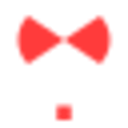
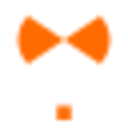
Retheme Heyra to the AxeForge kit's relay flavor
Replaces the one-off #ff3b3b accent (which lived outside the brand
kit's sanctioned mechanism) with the new relay flavor -- external
tools/hardware/browser extensions, shared with rsvp-m5 and
ReplayRaccoon, accent #ff6b00 + neutral-gray shell.

web/index.html and web/flash.html: data-flavor="relay" replaces the
ad-hoc :root override. web/axeforge.css re-copied from the updated
kit. logo.svg/wordmark.svg/favicon.svg: fallback/hardcoded colors
updated for standalone renders.

addons/heyra/app/main.py: kept its independent CSS var names (no
<link> tag available for this Python-templated string), swapped the
accent literals, and added a real --accent-contrast token -- fixing
3 real contrast bugs the color change would otherwise have introduced
(white text on what's now a ~2.86:1-contrast orange background).

Add-on Store card art (icon.png/logo.png) regenerated from the updated
mark SVGs at their HA-mandated dimensions (128x128 / 250x100).
Bumped to 0.5.3 so Supervisor offers it as an update.

.impeccable.md and CLAUDE.md: corrected stale references describing
the retired ad-hoc accent as intentional.

Changed region(s): [[0.125, 0.125, 0.875, 0.5], [0.4375, 0.8125, 0.5625, 0.9375]]

diff --git a/web/axeforge.css b/web/axeforge.css
@@ -7,12 +7,14 @@
      (the @theme inline block maps tokens to axe-* utilities)
    - Plain CSS / no Tailwind: just link it; browsers ignore @theme.
 
-   Flavors (set on <html>): forge (default) | circuit | flux | signal
+   Flavors (set on <html>): forge (default) | circuit | flux | relay | signal
    ============================================================ */
 
 @import url('https://fonts.googleapis.com/css2?family=Inter:wght@400;500;600;700&family=JetBrains+Mono:wght@400;500&display=swap');
 
-/* ---- Shell tokens: identical in every flavor. Never override. ---- */
+/* ---- Shell tokens: identical in every flavor except relay. Never override
+   otherwise -- relay's neutral-gray shell is a deliberate, one-time exception
+   (see the "new flavor discussion" note below), not a precedent for others. ---- */
 :root {
   color-scheme: dark;
 
@@ -45,6 +47,23 @@
 [data-flavor="flux"] {
   --af-accent: #a78bfa;
   --af-accent-hover: #8b5cf6;
+  --af-accent-contrast: #05070a;
+}
+
+/* relay: the one flavor that also overrides shell tokens (bg/surface/-2/-3/line),
+   not just the 3 accent vars -- "external tools/hardware/products" (Heyra, rsvp-m5,
+   ReplayRaccoon), inheriting ReplayRaccoon's neutral-gray shell instead of the
+   default blue-black. This is the "new flavor discussion" the Do/Don't section
+   below refers to, made real -- a deliberate one-time exception, not a precedent. */
+[data-flavor="relay"] {
+  --af-bg: #0a0a0a;
+  --af-surface: #1a1a1a;
+  --af-surface-2: #161616; /* terminal body */
+  --af-surface-3: #202020; /* terminal header */
+  --af-line: #2a2a2a;
+
+  --af-accent: #ff6b00;
+  --af-accent-hover: #e56000;
   --af-accent-contrast: #05070a;
 }
 

diff --git a/web/index.html b/web/index.html
@@ -1,5 +1,5 @@
 <!doctype html>
-<html lang="en" data-theme="dark">
+<html lang="en" data-flavor="relay">
 <head>
 <meta charset="utf-8">
 <meta name="viewport" content="width=device-width, initial-scale=1">
@@ -8,13 +8,12 @@
 <link rel="icon" href="./favicon.svg" type="image/svg+xml">
 <link rel="stylesheet" href="./axeforge.css">
 <style>
-  /* AxeForge shell (axeforge.css) + Heyra's own alert-red as the custom flavor
-     accent -- same "one custom accent per project" pattern as rsvp-m5's terracotta.
-     Fonts/components (Inter, JetBrains Mono, .glass-card, .terminal-window, .axe-button)
-     are inherited from the kit deliberately, not swapped -- the kit's own consistency
-     contract bans per-tool display fonts, and this is a real cross-project brand
-     system, not a fresh greenfield choice to second-guess. */
-  :root { --af-accent: #ff3b3b; --af-accent-hover: #e62e2e; --af-accent-contrast: #ffffff; }
+  /* AxeForge shell + the relay flavor (external tools/hardware/browser extensions)
+     -- see branding/README.md. Fonts/components (Inter, JetBrains Mono, .glass-card,
+     .terminal-window, .axe-button) are inherited from the kit deliberately, not
+     swapped -- the kit's own consistency contract bans per-tool display fonts, and
+     this is a real cross-project brand system, not a fresh greenfield choice to
+     second-guess. */
 
   * { box-sizing: border-box; }
   body { margin: 0; }

diff --git a/web/flash.html b/web/flash.html
@@ -1,5 +1,5 @@
 <!doctype html>
-<html lang="en" data-theme="dark">
+<html lang="en" data-flavor="relay">
 <head>
 <meta charset="utf-8">
 <meta name="viewport" content="width=device-width, initial-scale=1">
@@ -9,9 +9,8 @@
 <link rel="stylesheet" href="./axeforge.css">
 <script type="module" src="https://unpkg.com/esp-web-tools@10/dist/web/install-button.js?module"></script>
 <style>
-  /* Same shell as index.html -- same accent override, same kit components, kept in sync
+  /* Same shell as index.html -- same relay flavor, same kit components, kept in sync
      deliberately rather than sharing a separate stylesheet for two pages this small. */
-  :root { --af-accent: #ff3b3b; --af-accent-hover: #e62e2e; --af-accent-contrast: #ffffff; }
 
   * { box-sizing: border-box; }
   body { margin: 0; }

diff --git a/addons/heyra/app/main.py b/addons/heyra/app/main.py
@@ -147,9 +147,9 @@ STATUS_HTML = """<!doctype html>
 <html><head><meta charset="utf-8"><title>Heyra</title>
 <style>
   :root {{
-    --bg: #05070a; --surface: #0a0f1a; --line: #1a2233;
+    --bg: #0a0a0a; --surface: #1a1a1a; --line: #2a2a2a;
     --text: #ffffff; --text-muted: #94a3b8;
-    --accent: #ff3b3b; --accent-hover: #e62e2e;
+    --accent: #ff6b00; --accent-hover: #e56000; --accent-contrast: #05070a;
     --online-bg: rgba(34, 197, 94, 0.14); --online-text: #4ade80;
     --offline-bg: rgba(148, 163, 184, 0.1); --offline-text: #94a3b8;
     --radius: 0.6rem;
@@ -169,16 +169,16 @@ STATUS_HTML = """<!doctype html>
   .lede {{ color: var(--text-muted); margin: 0 0 2.25rem; line-height: 1.5; }}
 
   .primary-action {{
-    display: block; text-decoration: none; color: inherit;
+    display: block; text-decoration: none; color: var(--accent-contrast);
     background: var(--accent); border-radius: var(--radius);
     padding: 1.1rem 1.35rem;
-    box-shadow: 0 16px 32px -18px rgba(255, 59, 59, 0.45);
+    box-shadow: 0 16px 32px -18px rgba(255, 107, 0, 0.45);
     transition: background 0.15s ease, transform 0.1s ease;
   }}
   .primary-action:hover {{ background: var(--accent-hover); }}
   .primary-action:active {{ transform: scale(0.99); }}
   .primary-action strong {{ display: block; font-size: 1.05rem; margin-bottom: 0.2rem; }}
-  .primary-action span {{ color: rgba(255, 255, 255, 0.85); font-size: 0.85rem; }}
+  .primary-action span {{ color: color-mix(in srgb, var(--accent-contrast) 85%, transparent); font-size: 0.85rem; }}
 
   section {{ margin-top: 2.5rem; }}
   .kicker-sm {{
@@ -213,7 +213,7 @@ STATUS_HTML = """<!doctype html>
     border-radius: 0.35rem; padding: 0.3rem 0.5rem; font-size: 0.85rem;
   }}
   .assign-form button {{
-    background: var(--accent); color: #ffffff; border: none; border-radius: 0.35rem;
+    background: var(--accent); color: var(--accent-contrast); border: none; border-radius: 0.35rem;
     padding: 0.35rem 0.7rem; font-size: 0.82rem; font-weight: 600; cursor: pointer;
   }}
   .assign-form button:hover {{ background: var(--accent-hover); }}

diff --git a/.impeccable.md b/.impeccable.md
@@ -12,10 +12,12 @@ work, how do I add it" — not educating a general consumer audience.
 ### Brand Personality
 Inherited from the AxeForge kit itself (`~/workspace/axeforging/branding/README.md`):
 *"dark, technical, terminal. Precision-tool energy, not startup gloss."*
-Heyra's own accent is `#ff3b3b` (alert-red, distinct from the kit's 4 canonical
-flavors — same "one custom accent per project" pattern as sibling project
-`rsvp-m5`'s terracotta). No mascot/character — the personality comes from a
-live-feeling animated event feed and honest, clean diagrams, not illustration.
+Heyra uses the kit's `relay` flavor (`data-flavor="relay"`, accent `#ff6b00`,
+neutral-gray shell) — one of the kit's five sanctioned flavors (shared with
+sibling projects `rsvp-m5` and ReplayRaccoon, the "external tools, hardware,
+browser extensions" category), not a one-off per-project override. No
+mascot/character — the personality comes from a live-feeling animated event
+feed and honest, clean diagrams, not illustration.
 
 ### Aesthetic Direction
 Reference: `axeforging.github.io/rsvp-m5` (cataloged directly, not guessed) —

diff --git a/CLAUDE.md b/CLAUDE.md
@@ -110,7 +110,9 @@
     `logo.png` are done — icons rasterized from the real AxeForging brand kit
     (`~/workspace/axeforging/branding/logo.svg`/`wordmark.svg`) via ImageMagick, with a
     Heyra-specific accent color (`#ff3b3b`) substituted for the kit's default forge-orange,
-    same "one custom accent per project" pattern as `rsvp-m5`'s own terracotta.
+    same "one custom accent per project" pattern as `rsvp-m5`'s own terracotta. **Superseded**
+    — see the `relay` flavor rollout below; both this and rsvp-m5's terracotta were the
+    "new flavor discussion" the kit's own README called for, now resolved.
   - GitHub Pages landing site added: `web/index.html` (AxeForge brand kit + a Heyra-specific
     accent, `#ff3b3b`) deployed via `.github/workflows/pages.yml`, mirroring the real
     `AxeForging/rsvp-m5` Pages pattern (`configure-pages`/`upload-pages-artifact`/

diff --git a/addons/heyra/CHANGELOG.md b/addons/heyra/CHANGELOG.md
@@ -1,5 +1,13 @@
 # Changelog
 
+## 0.5.3
+
+Retheme to the AxeForge kit's `relay` flavor (external tools/hardware/browser
+extensions -- shared with sibling projects rsvp-m5 and ReplayRaccoon), replacing
+the one-off `#ff3b3b` accent that lived outside the kit's sanctioned mechanism.
+Ingress panel, landing page, flash page, and Store card art (icon.png/logo.png)
+all move to the new `#ff6b00` accent + neutral-gray shell.
+
 ## 0.5.2
 
 Fixes a real bug on Assign: same class as the 0.3.1 `/flash` 404 -- the
